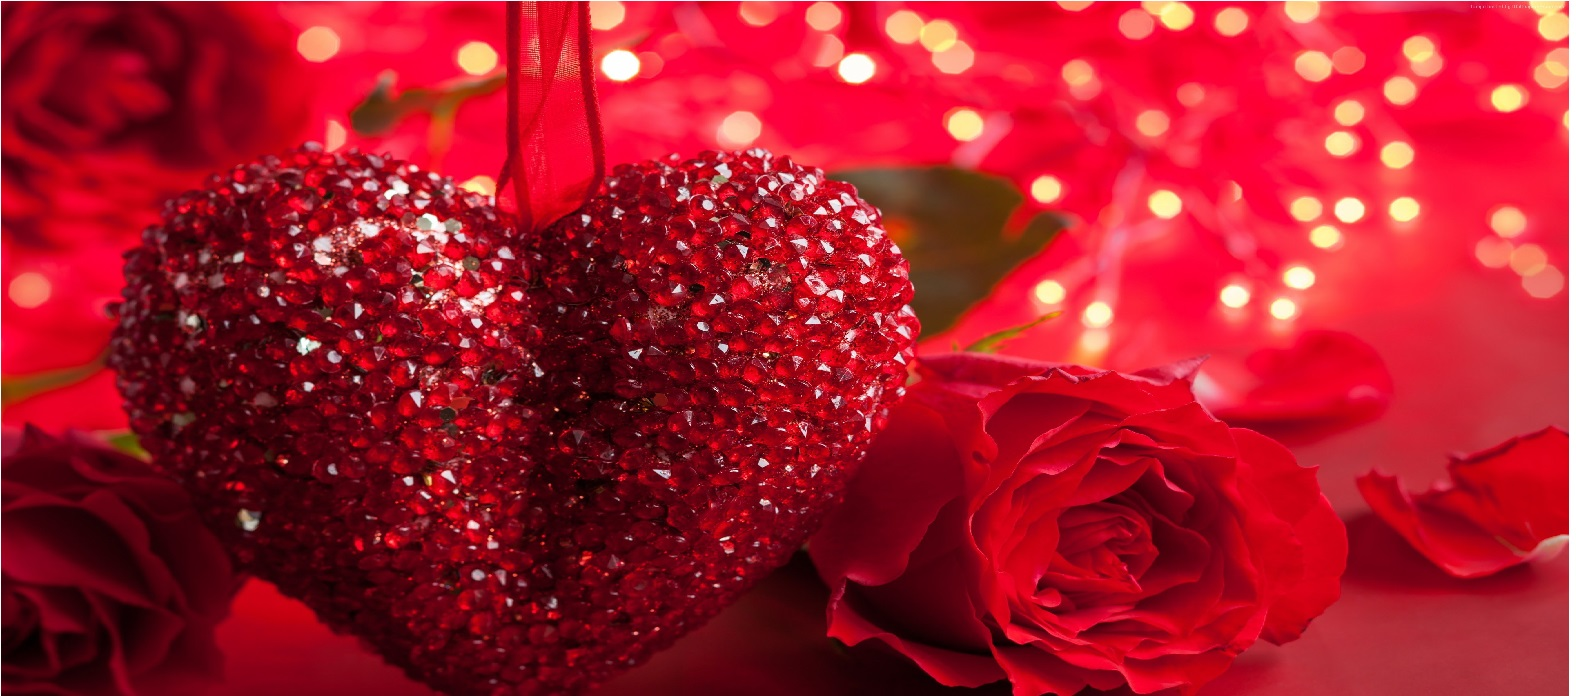
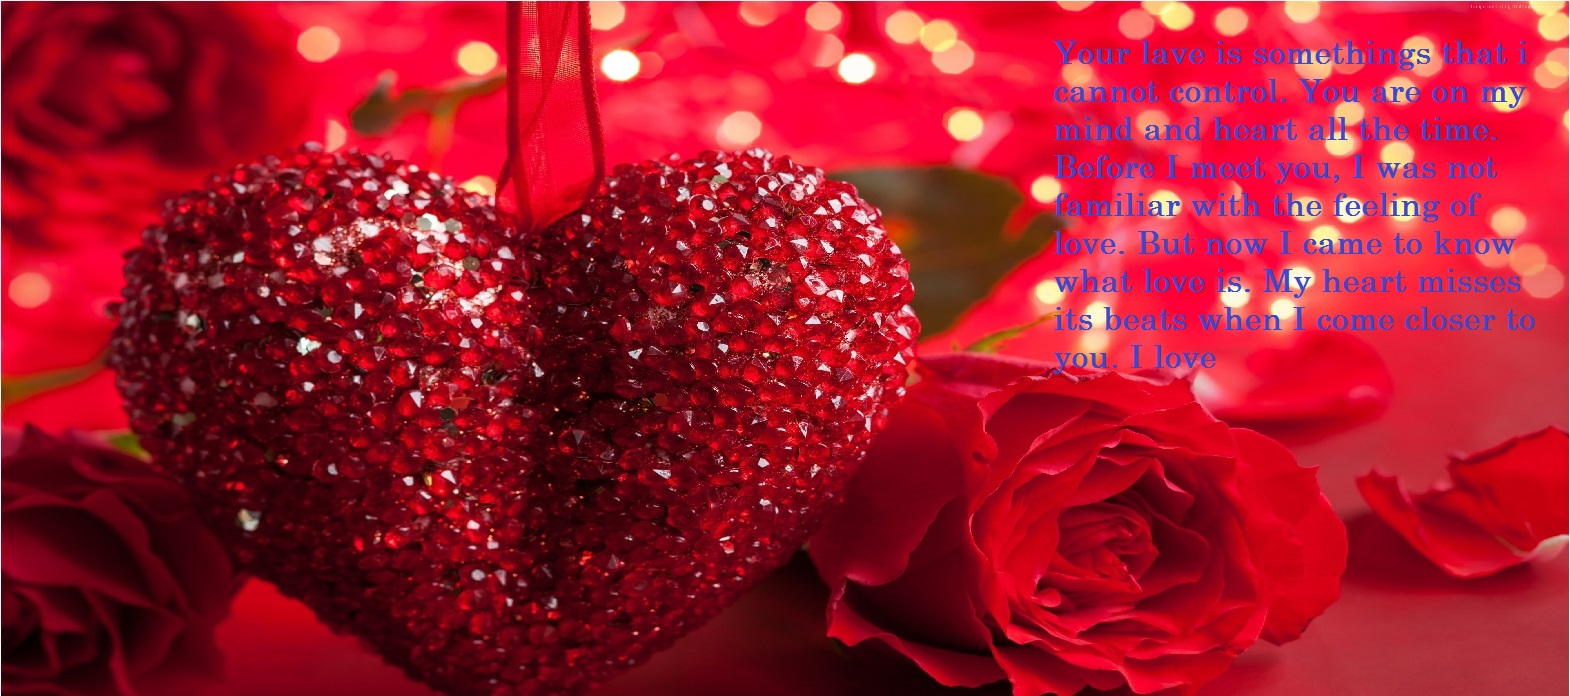
change images

diff --git a/index.html b/index.html
@@ -49,43 +49,47 @@ License URL: http://creativecommons.org/licenses/by/3.0/
             <div class="callbacks_container">
                 <ul class="rslides" id="slider3">
                     <li>
-                        <div class="slider-img">
-                            <img src="images/b1.jpg" class="img-responsive" alt="impetus">
-                        </div>
-                        <div class="slider_banner_info" style="color:blueviolet">
-                            Your love is somethings that I cannot control. You are on my mind and heart all the time. Before I meet you, 
-                            I was not familiar with the feeling of love. But now I came to know what love is. 
-                            My heart misses its beats when I come closer to you. I love you.
-                        </div>
+                        <a href="images/b1.jpg" target="_blank">
+                            <div class="slider-img">
+                                <img src="images/b1.jpg" class="img-responsive" alt="impetus">
+                            </div>
+                            <div class="slider_banner_info" style="color:blueviolet">
+
+                            </div>
+                        </a>
 
                     </li>
                     <li>
-                        <div class="slider-img">
-                            <img src="images/b2.jpg" class="img-responsive" alt="impetus">
-                        </div>
-                        <div class="slider_banner_info">
-                            You are like a medicine to me. When I see you smiling, it gives relief to my pains. 
-                            When I thinks of you, I understand the meaning of life. When you are with me, 
-                            everythings looks beautiful and I feel happy. You are my first and last love. I love you so much.
-                        </div>
+                        <a href="images/b2.jpg" target="_blank">
+                            <div class="slider-img">
+                                <img src="images/b2.jpg" class="img-responsive" alt="impetus">
+                            </div>
+                            <div class="slider_banner_info">
+
+                            </div>
+                        </a>
 
                     </li>
                     <li>
-                        <div class="slider-img">
-                            <img src="images/b3.jpg" class="img-responsive" alt="impetus">
-                        </div>
-                        <div class="slider_banner_info" style="margin-left: 20%;margin-top: 5%;">
-                            Be my girl, I'll be your man
-                        </div>
+                        <a href="images/b3.jpg" target="_blank">
+                            <div class="slider-img">
+                                <img src="images/b3.jpg" class="img-responsive" alt="impetus">
+                            </div>
+                            <div class="slider_banner_info" style="margin-left: 20%;margin-top: 5%;">
+
+                            </div>
+                        </a>
 
                     </li>
                     <li>
-                        <div class="slider-img">
-                            <img src="images/b4.jpg" class="img-responsive" alt="impetus">
-                        </div>
-                        <div class="slider_banner_info">
+                        <a href="images/b4.jpg" target="_blank">
+                            <div class="slider-img">
+                                <img src="images/b4.jpg" class="img-responsive" alt="impetus">
+                            </div>
+                            <div class="slider_banner_info">
 
-                        </div>
+                            </div>
+                        </a>
 
                     </li>
 
